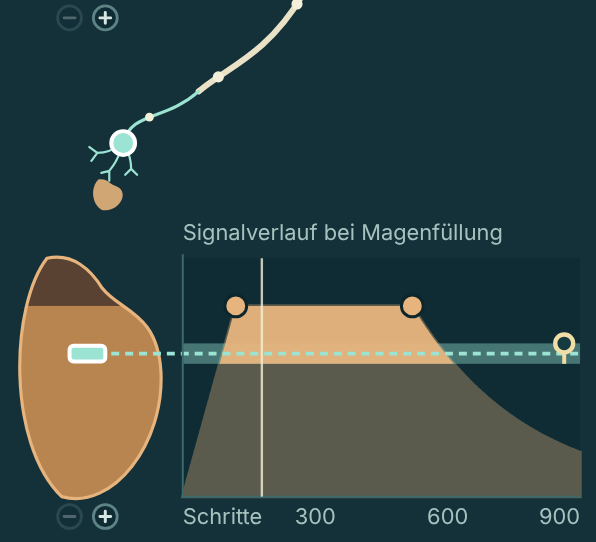
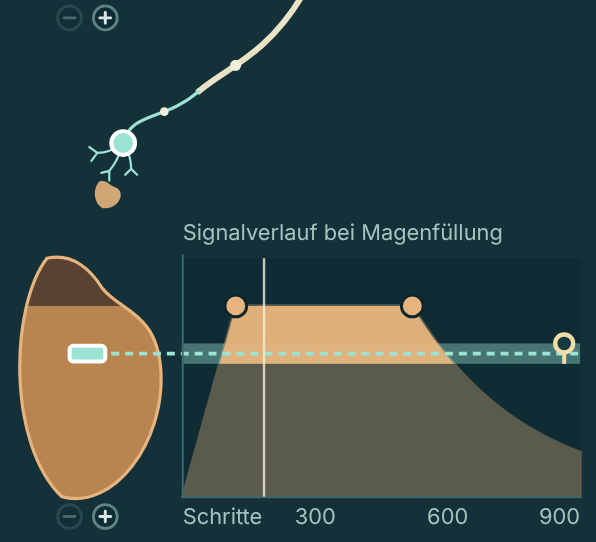
Darm: Der Platz in der Reserve begrenzt auch die Eingabe der Belohnung und damit Signal und Pulse (Astra 04:09); was keinen Platz hat, gestrichelt wie in der Futterzeile
Claude-Session: https://claude.ai/code/session_01SAD6gcsuZjdDe9bFzLa7Yk

diff --git a/entwuerfe/inspektoren.html b/entwuerfe/inspektoren.html
@@ -241,10 +241,14 @@ const SENSE = {
 };
 const cellGates = k => Array.from({length : CELLS}, (_, c) => clamp(k.gate + k.spread * ((c + .5) / CELLS - .5), .02, .98));
 const answer = (x, gate, used) => { const over = (clamp(x, 0, 1) - used - gate) / (1 - gate); return over > 0 ? over / (over + gate * (1 - over)) : 0; };
-function stimulus(id) {
+function offered(id) {
   const i = S[id].input, top = i.height * clamp(i.stop / Math.max(1, i.rise), 0, 1), after = SENSE[id].after;
   return Array.from({length : STEPS + 1}, (_, st) => st <= i.stop ? i.height * clamp(st / Math.max(1, i.rise), 0, 1) : top * Math.exp(-(st - i.stop) / after));
 }
+// What reaches the cells: the reward is no more than the reserve has room for (take_nutrition,
+// src/physiology.cc:205-213), the same limit as in the food row below.
+const roomFor = id => SENSE[id].row?.room ? tried.room : 1;
+const stimulus = id => offered(id).map(v => Math.min(v, roomFor(id)));
 // What a key's cells send under an input, step by step, and what they have got used to by then.
 function run(id, k, stim) {
   const gates = cellGates(k), pace = SENSE[id].tires ? 1 / k.used : 0, sent = [], used = []; let u = 0;
@@ -606,6 +610,12 @@ function drawSense(id) {
   // feel and what they send.
   el('rect', {x : L, y : I0, width : R - L, height : I1 - I0, fill : COLOUR.track}, live);
   el('path', {d : path(stim.map((v, st) => [X(st), IY(v)])) + ` L${R} ${I1} L${L} ${I1} Z`, fill : o.colour, opacity : .35, stroke : o.colour, 'stroke-width' : 1.6}, live);
+  // What the reserve has no room for: outlined above its line, as in the food row.
+  if (roomFor(id) < 1) {
+    const raw = offered(id);
+    if (raw.some(v => v > roomFor(id))) el('path', {d : path(raw.map((v, st) => [X(st), IY(v)])), fill : 'none', stroke : o.colour, 'stroke-dasharray' : '2 2', opacity : .6}, live);
+    el('path', {d : `M${L} ${IY(roomFor(id))} H${R}`, stroke : COLOUR.icon, 'stroke-width' : 1.4}, live);
+  }
   keys.forEach((k, i) => {
     const chosen = i === cell.chosen, low = Math.min(...cellGates(k)), felt = runs[i].used.map((u, st) => Math.max(0, stim[st] - u));
     const shapes = [keyBand(live, k, i, chosen, L, R - L, IY)];
